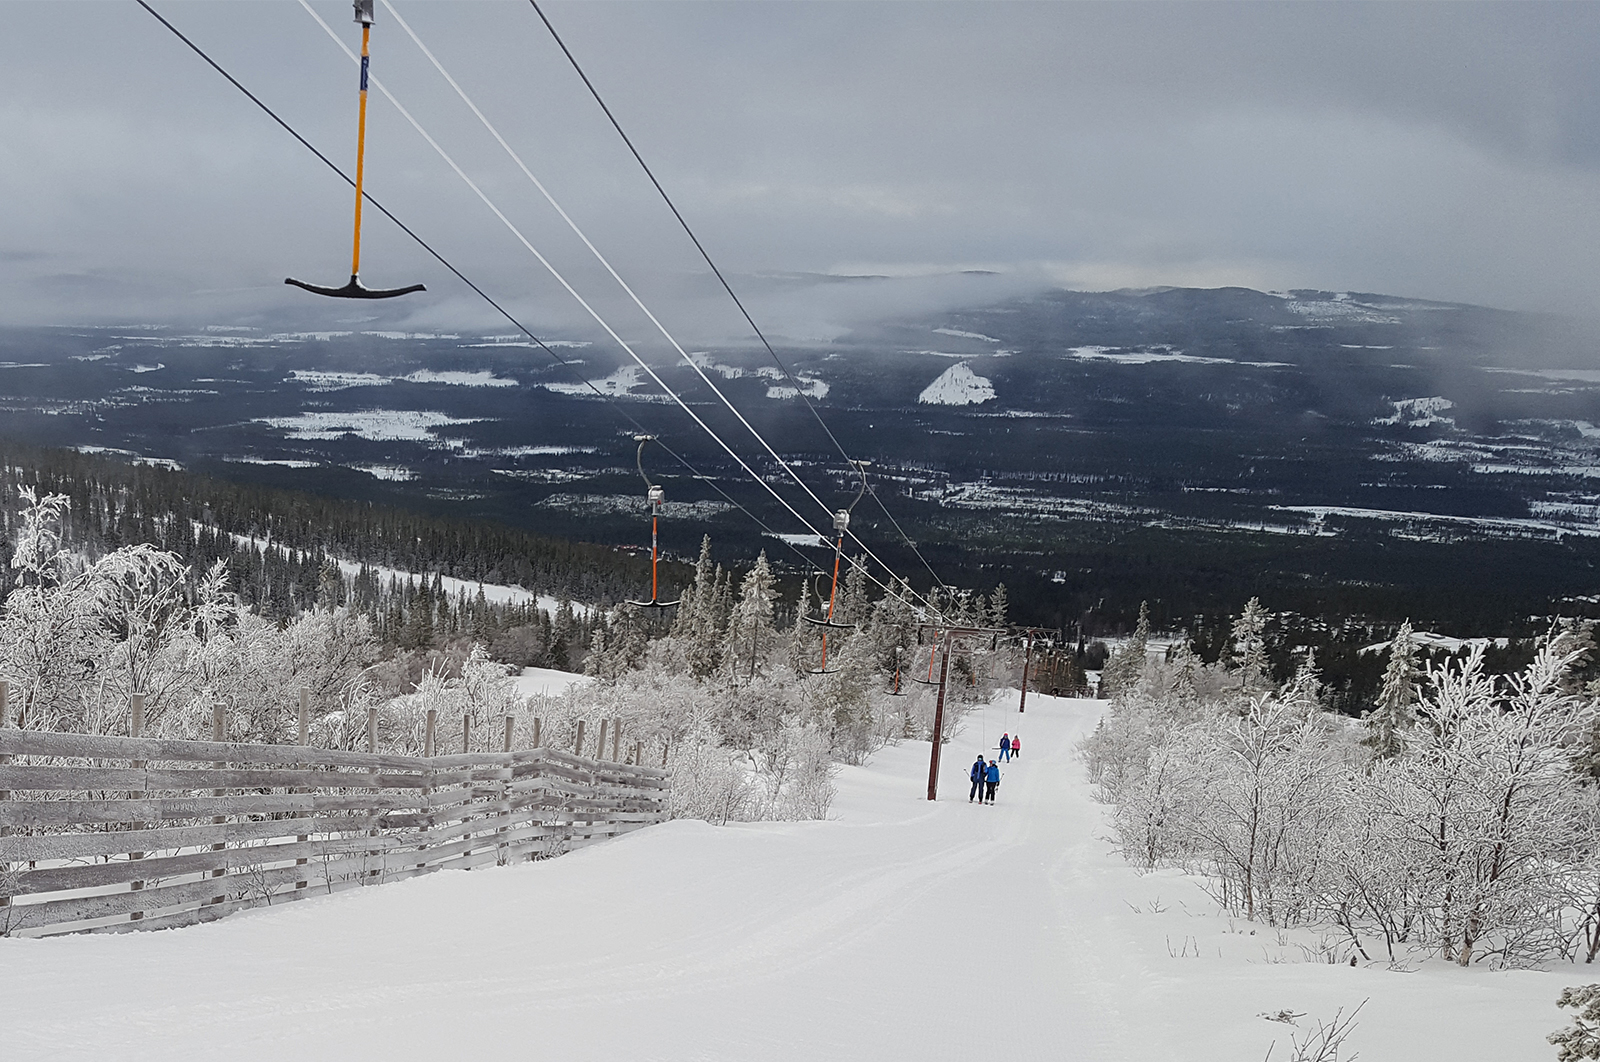
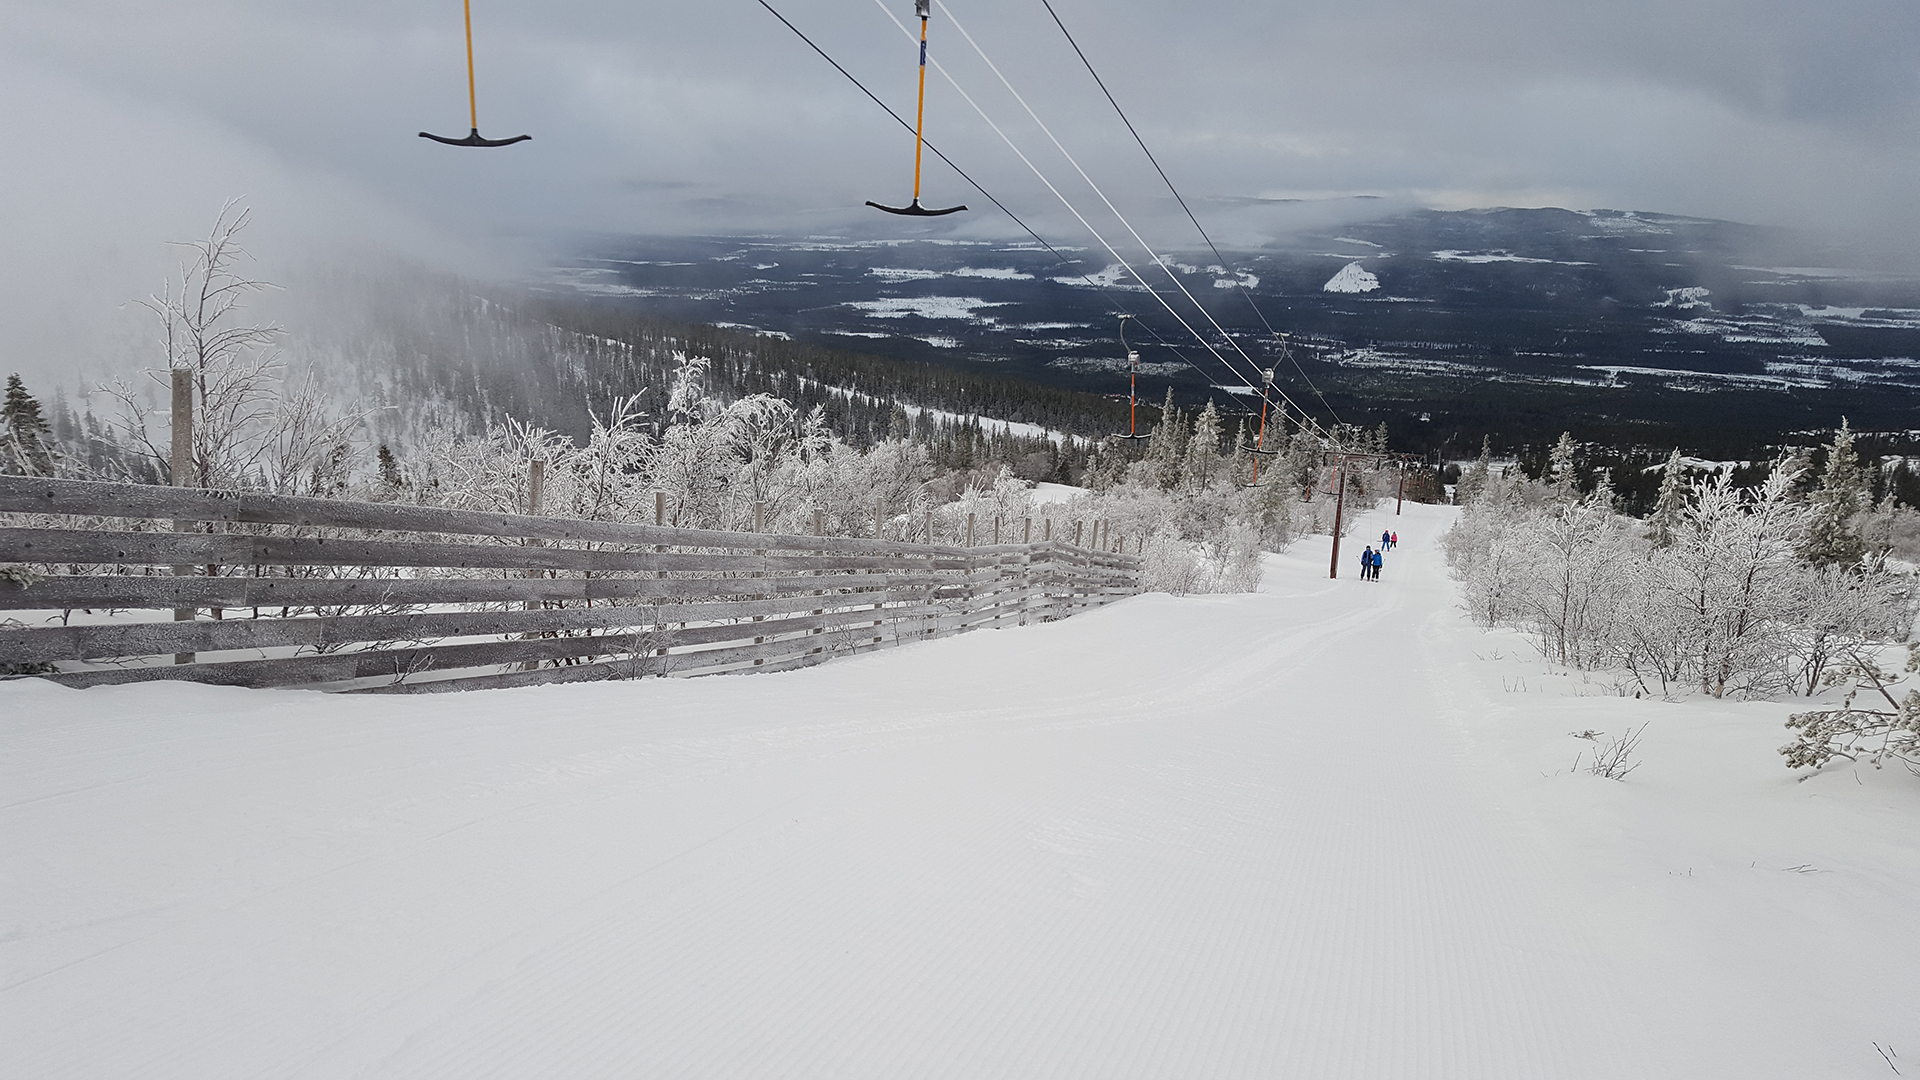
update article

diff --git a/src/articles/being-considerate/Index.tsx b/src/articles/being-considerate/Index.tsx
@@ -32,7 +32,7 @@ const Index = (): ReactElement => (
     <p>
       As an adult, I’ve made a conscious effort to experience the things I
       missed. Picking up skiing as a hobby is a part of that. With snow arriving
-      early this winter, I traveled north to a ski resort.
+      early this winter, I traveled to a ski resort called Åre.
     </p>
     <h2>T-bar lifts</h2>
     <p>
@@ -43,7 +43,7 @@ const Index = (): ReactElement => (
     <Image
       src={tBarLift}
       srcWidth={800}
-      srcHeight={531}
+      srcHeight={450}
       zoomSrc={tBarLiftLarge}
       caption=""
     />
@@ -73,14 +73,13 @@ const Index = (): ReactElement => (
       I’m astonished. For one, I rarely encounter kids on lifts who interact.
       And perhaps it’s due to my lack of experience with them in general, but
       the degree of thoughtfulness she showed with just a few words surprised
-      me. Also, the fluency of which she spoke English, in a country where it’s
+      me. Plus, the fluency in which she spoke English, in a country where it’s
       not the primary language, reminded me of myself as a child.
     </p>
     <p>
-      Continuing up the hill, we manage to get a conversation going. I find out
-      she’s here to attend a training camp. Realizing I speak Swedish, she tells
-      me she spoke English at first as international tourists frequent the
-      resort.
+      Continuing up the hill, I find out she’s here to attend a training camp.
+      Realizing I speak Swedish, she tells me she spoke English at first as
+      international tourists frequent the resort.
     </p>
     <p>
       As we part ways, I tell her, “I like that you asked. That was very
